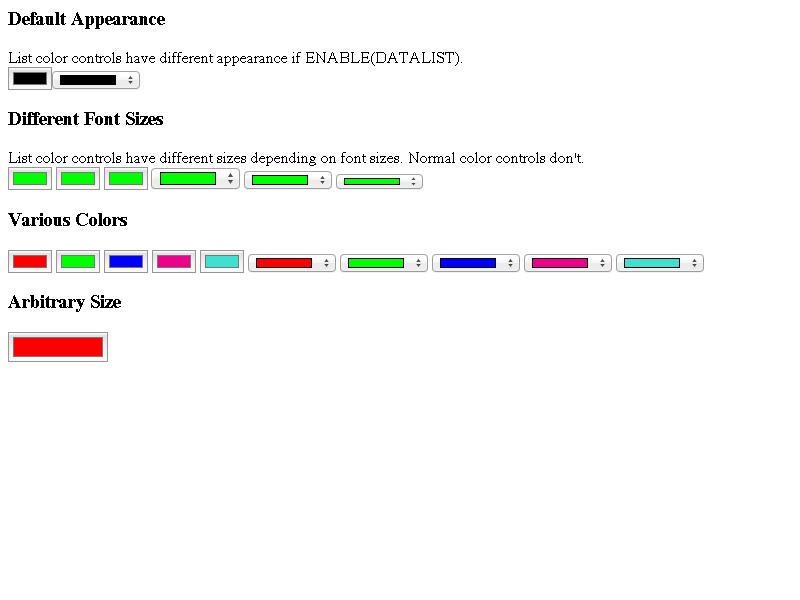
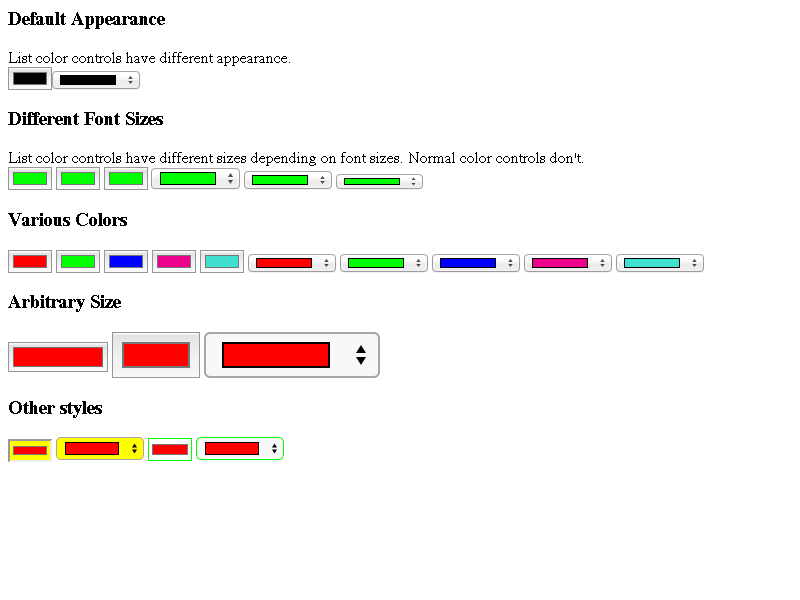
Mac: Update CSS appearance for input[type=color][list].
r168130 updated -webkit-appearance:menulist-button implementation. We should
update the CSS ruleset for input[type=color][list] too because it uses
menulist-button when it is styled.

BUG=345609
TEST=automated

Review URL: https://codereview.chromium.org/180163012

git-svn-id: svn://svn.chromium.org/blink/trunk@168519 bbb929c8-8fbe-4397-9dbb-9b2b20218538

diff --git a/LayoutTests/fast/forms/color/input-appearance-color.html b/LayoutTests/fast/forms/color/input-appearance-color.html
@@ -1,5 +1,5 @@
 <h3>Default Appearance</h3>
-List color controls have different appearance if ENABLE(DATALIST).<br>
+List color controls have different appearance.<br>
 <input type="color"><input type="color" list>
 <h3>Different Font Sizes</h3>
 List color controls have different sizes depending on font sizes. Normal color controls don't.<br>
@@ -22,3 +22,10 @@ List color controls have different sizes depending on font sizes. Normal color c
 <input type="color" value="#40e0d0" list>
 <h3>Arbitrary Size</h3>
 <input type="color" value="#FF0000" style="width:100px;height:30px;">
+<input type="color" value="#FF0000" style="zoom:2">
+<input type="color" value="#FF0000" style="zoom:2" list>
+<h3>Other styles</h3>
+<input type="color" value="#FF0000" style="background-color:yellow">
+<input type="color" value="#FF0000" style="background-color:yellow" list>
+<input type="color" value="#FF0000" style="border:1px solid lime; border-radius:0">
+<input type="color" value="#FF0000" style="border:1px solid lime; border-radius:0" list>

diff --git a/Source/core/css/themeMac.css b/Source/core/css/themeMac.css
@@ -3,9 +3,9 @@
  * found in the LICENSE file.
  */
 
-select {
+select, input[type="color"][list] {
     background-color: #f8f8f8;
-    border-color: #a6a6a6;
+    border: 1px solid #a6a6a6;
 }
 
 select[size],
